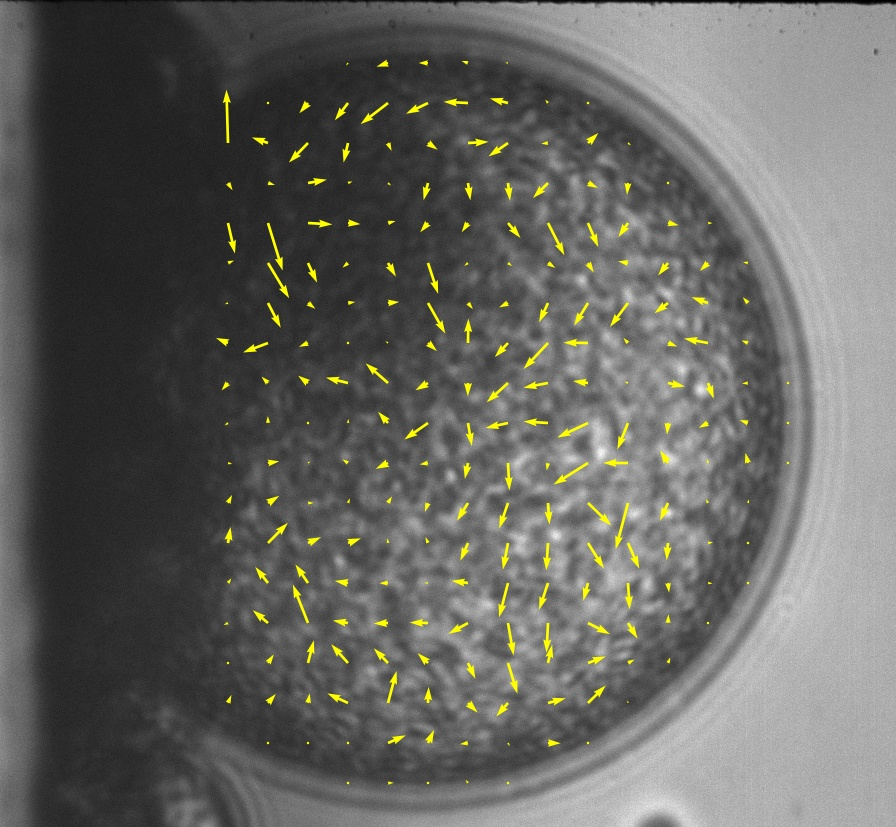
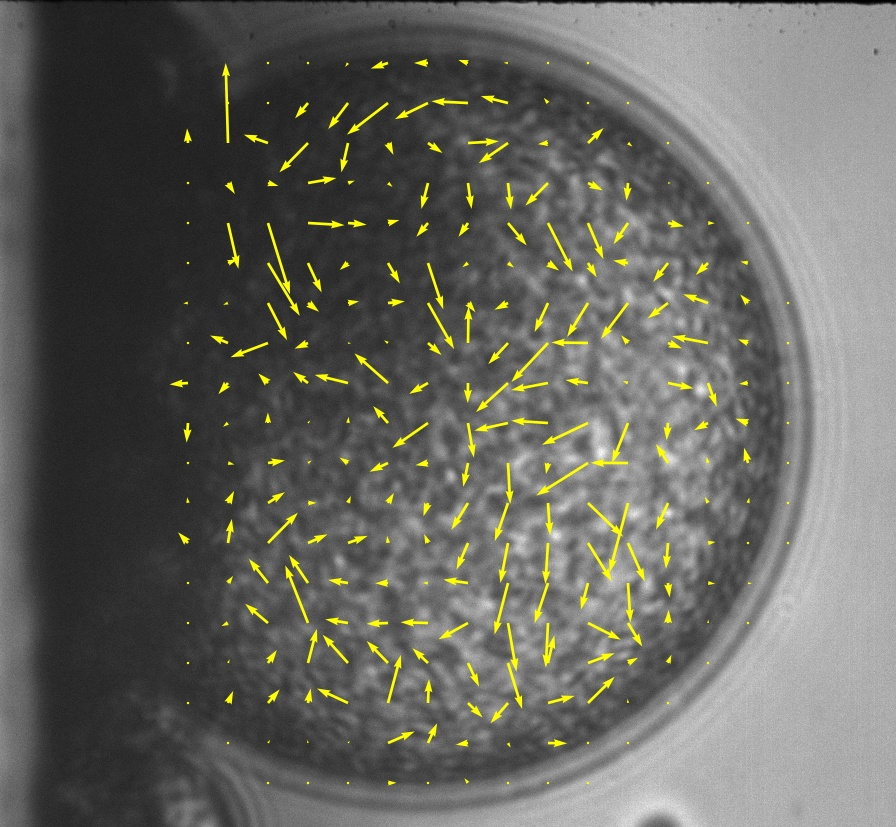
modify arrow scale in piv_overlay

diff --git a/piv_overlay.py b/piv_overlay.py
@@ -34,19 +34,21 @@ LOG
 piv_folder: test_images\piv_drop
 img_folder: test_images\piv_drop
 output_folder: test_images\piv_overlay
-sparcity: 1
-Mon Jan  3 12:31:44 2022 // 06972 calculated
-Mon Jan  3 12:31:44 2022 // 06974 calculated
+sparcity: 2
+Sat Jan 22 14:20:09 2022 // 06972 calculated
+Sat Jan 22 14:20:09 2022 // 06974 calculated
 
 EDIT
 ====
 Jan 03, 2022 -- i) move from PIV to script, ii) set scale, iii) update docstring
                 iv) minor structural changes
                 See PIV technical report Sec II.A.1 for the reasoning of scale settings.
+Jan 22, 2022 -- reduce scale by 1.5 to increase the arrow size
 """
 
 def determine_arrow_scale(u, v, sparcity):
-    return max(np.nanmax(u), np.nanmax(v)) * col / sparcity
+    row, col = u.shape
+    return max(np.nanmax(u), np.nanmax(v)) * col / sparcity / 1.5
 
 if __name__=="__main__": # whether the following script will be executed when run this code
     pivDataFolder = sys.argv[1]
